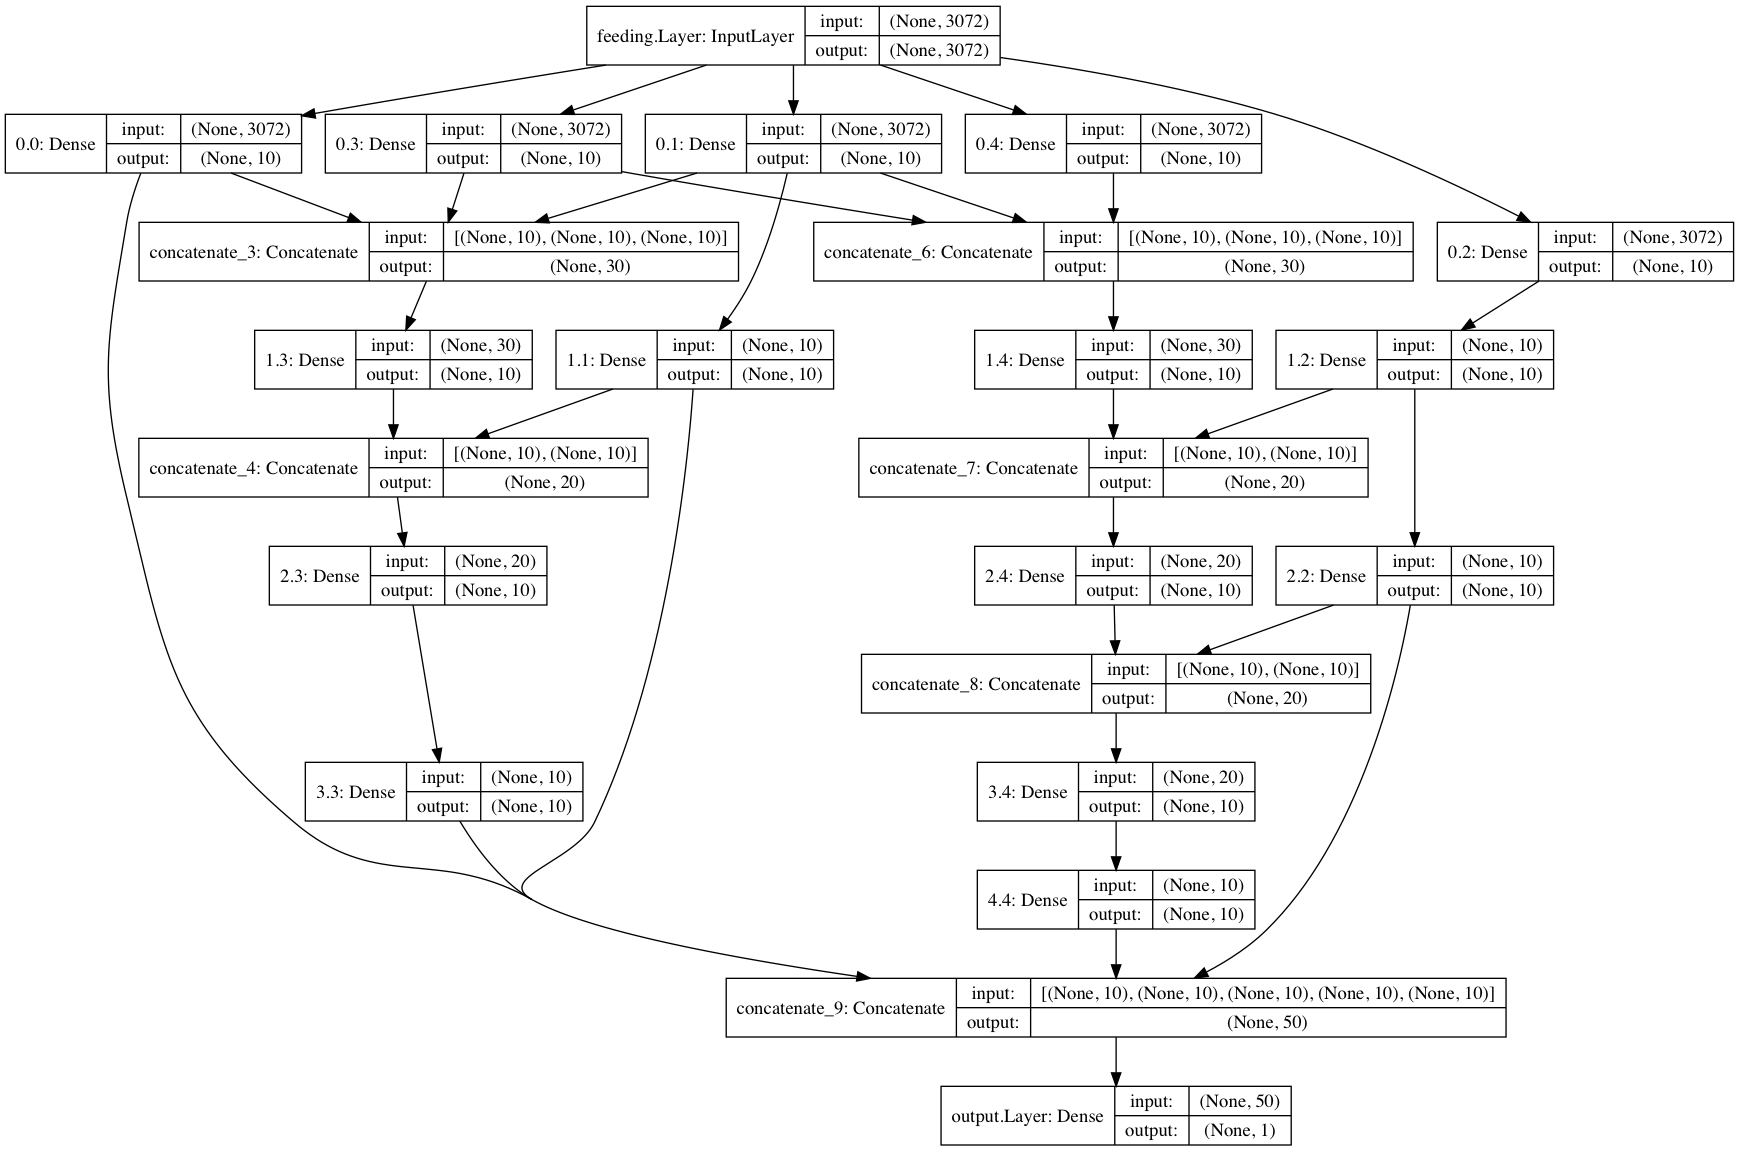
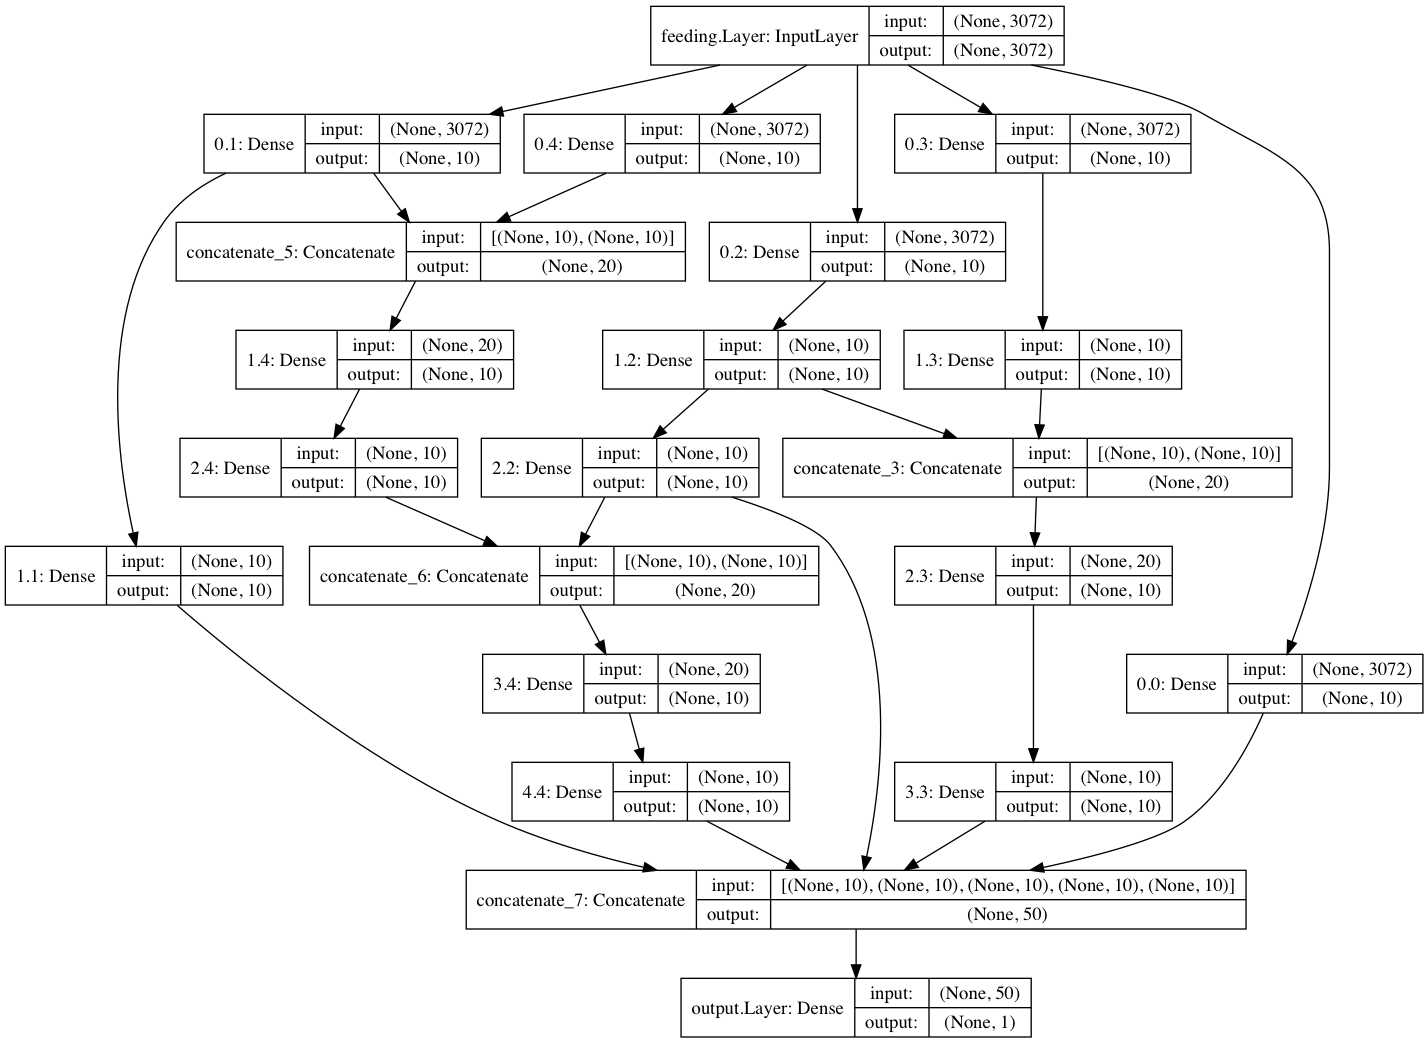
minor bug fixed

Changed region(s): [[0.0, 0.0, 1.0, 1.0], [0.2773, 0.7363, 0.3697, 0.7977], [0.0616, 0.2761, 0.0924, 0.3068]]

diff --git a/adanet.py b/adanet.py
@@ -2,7 +2,7 @@
 # @Author: Romain
 # @Date:   2018-02-28 15:38:45
 # @Last Modified by:   romaingautronapt
-# @Last Modified time: 2018-03-01 14:06:19
+# @Last Modified time: 2018-03-01 17:05:47
 import numpy as np
 from keras.layers import Input, Dense, concatenate
 from keras.models import Model
@@ -38,7 +38,6 @@ def builder(B,T,flattenDimIm,lr,option,reps):
 				if depth == 0 : 
 					layerDic[layerName]=Dense(B, activation='relu',name=layerName)(layerDic['feeding.Layer'])
 				else:
-					#for rep in range(reps):
 					candidateNameList = selectCandidateLayers(layerDic,t,depth)
 					candidateNameList = drawing(candidateNameList)
 					layerBelowName = str(depth-1)+'.'+str(t)
@@ -85,10 +84,10 @@ def selectCandidateLayers(layerDic,t,c):
 		depth,iteration = layerName.split('.')
 		try : 
 			depth_int,iteration_int = int(depth),int(iteration)
-			if iteration_int < t and depth_int == c-1 :
+			if depth_int == c-1 :
 				candidateList.append(layerName)
 		except :
-		     pass
+		    pass
 	return candidateList
 
 def layerCall(dic,keys):
@@ -100,6 +99,7 @@ def main():
 	B = 10
 	T = 5
 	lr = .001
+	epoch = 1000
 	model,layerDic = builder(B,T,flattenDimIm,lr,"B",1)
 	print(layerDic)
 	plot_model(model,to_file='model.png',show_shapes=True)
